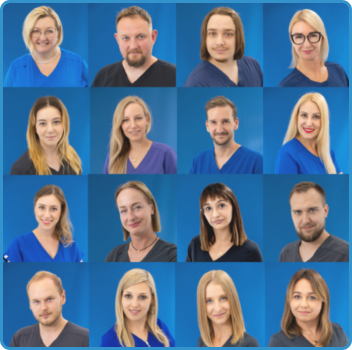
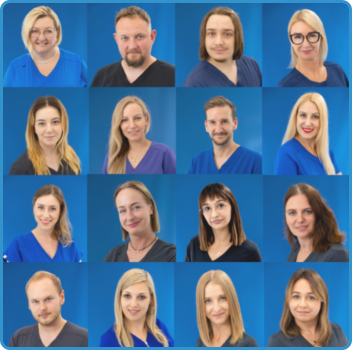
ortoPrzyParku ver 0.2.57 minor changes

diff --git a/src/app/szkolenia/SzkoleniaPage.jsx b/src/app/szkolenia/SzkoleniaPage.jsx
@@ -25,7 +25,7 @@ const SzkoleniaPage = () => {
           <h2 className={style.title}>Szkolenia</h2>
           <div className={style.doctorWrapper}>
             <h2 className={style.mainTitle}>
-              Lekarz Stomatolog, Specjalista ortodona
+              Lekarz Stomatolog, Specjalista ortodonta
             </h2>
             <div className={style.doctorBox}>
               <div className={style.imageWrapper}>

diff --git a/src/components/OrtoBanner/OrtoBanner.jsx b/src/components/OrtoBanner/OrtoBanner.jsx
@@ -16,7 +16,7 @@ export const OrtoBanner = () => {
             Miejsce, w którym zatroszczymy się o Twój uśmiech.
           </div>
           <Link className={styles.btn} href={"tel:501199124"}>
-            Umow się na wizytę
+            Umów się na wizytę
           </Link>
         </div>
       </div>

diff --git a/README.md b/README.md
@@ -10,6 +10,10 @@ npm run dev
 
 ## CHANGE LOG
 
+## ver 0.2.57 - minor changes, swipe pdf of current courses
+
+    podmiana plików pdf dla kursu listopad i grudzień, drobne literówki, podmiana zdjęcia zespołu na stronie głównej
+
 ## ver 0.2.56 - october course ended
 
     kurs w pańdzierniku zakończony
